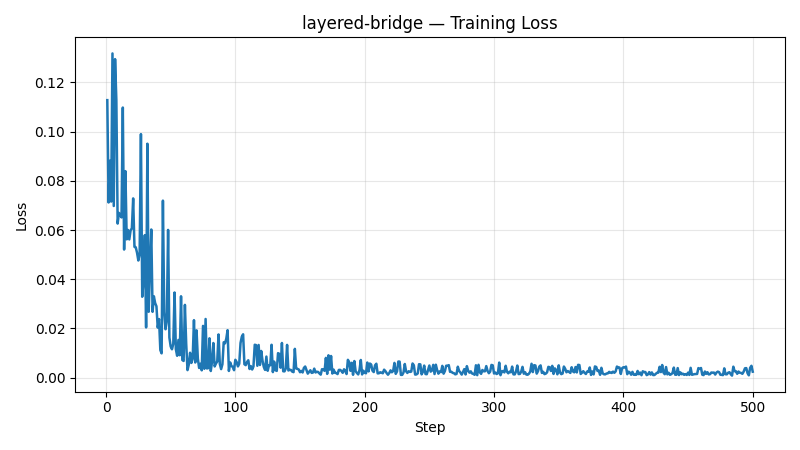
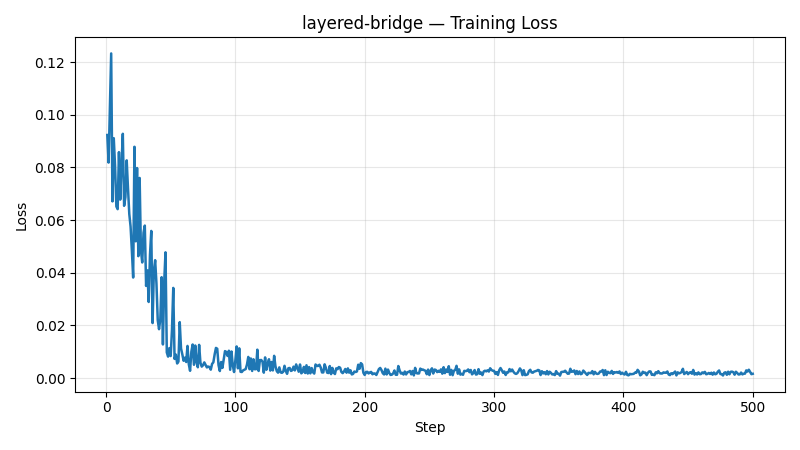
update(stage2): report

diff --git a/reports/stage-2/training-report.md b/reports/stage-2/training-report.md
@@ -6,11 +6,11 @@
 - Git commit: `n/a`
 - Stage: `stage-2`
 - Workflows documented: `core-delta`, `layered-bridge`, `experimental`
-- Report generated from: `stage-2/run-status.json`, `reports/stage-2-merge-manifest.json`
+- Report generated from: `stage-2/run-status.json`, `reports/stage-2/merge-manifest.json`
 
 ## Hardware
 
-- Hostname: `nodegpu246`
+- Hostname: `nodegpu217`
 - Platform: `Linux-4.18.0-553.42.1.el8_10.x86_64-x86_64-with-glibc2.28`
 - Python: `3.12.13`
 - CPU: `x86_64`
@@ -23,23 +23,68 @@
 
 ## Aggregate Timing
 
-- Total elapsed across all workflows: `2.6s (00h 00m 02s)`
+- Total elapsed across all workflows: `7089.8s (01h 58m 09s)`
 
 ## Runtime / Job Summary
 
 | Job | Status | Duration (s) | Exit code | Log |
 | --- | --- | --- | --- | --- |
-| `core_delta_sweep` | `succeeded` | `686.6836` | `0` | `stage-2/logs/core-delta-sweep.log` |
-| `core_smoke_eval` | `succeeded` | `264.7904` | `0` | `stage-2/logs/core-smoke-eval.log` |
-| `experimental_smoke_eval` | `succeeded` | `265.9189` | `0` | `stage-2/logs/experimental-smoke-eval.log` |
-| `layered_bridge_train` | `succeeded` | `22.253` | `0` | `stage-2/logs/layered-bridge-train.log` |
-| `teacher_dataset_generation` | `succeeded` | `3414.4815` | `0` | `stage-2/logs/teacher-dataset.log` |
+| `consistency_eval` | `succeeded` | `1109.2909` | `0` | `stage-2/logs/consistency-eval.log` |
+| `core_delta_sweep` | `succeeded` | `1065.4573` | `0` | `stage-2/logs/core-delta-sweep.log` |
+| `core_edit_eval` | `succeeded` | `649.1934` | `0` | `stage-2/logs/core-edit-eval.log` |
+| `core_smoke_eval` | `succeeded` | `305.1985` | `0` | `stage-2/logs/core-smoke-eval.log` |
+| `experimental_smoke_eval` | `succeeded` | `331.2621` | `0` | `stage-2/logs/experimental-smoke-eval.log` |
+| `layered_bridge_train` | `succeeded` | `31.3337` | `0` | `stage-2/logs/layered-bridge-train.log` |
+| `teacher_dataset_generation` | `succeeded` | `3598.0664` | `0` | `stage-2/logs/teacher-dataset.log` |
 
 ---
 
 ## Workflow: core-delta
 
-_Metrics file not found at `stage-2/metrics/core-delta-train.json`. This workflow has not been executed yet._
+### Training Method
+- Type: `coefficient-sweep`
+- Model: `Qwen/Qwen-Image-2512 + Qwen/Qwen-Image-Edit-2511`
+- Objective: `edit-delta blend sweep`
+- Optimizer: `n/a`
+- Notes: Image-level delta sweep over blend weights [0.2, 0.3, 0.35, 0.4]. No gradient-based training.
+
+### Hyperparameters
+- Max steps: `n/a`
+- Batch size: `n/a`
+- Learning rate: `n/a`
+- Seed: `n/a`
+
+### Timing
+- Start: `2026-03-24T10:40:16.506529+00:00`
+- End: `2026-03-24T10:58:01.967804+00:00`
+- Elapsed: `1065.5s (00h 17m 45s)`
+- Job status: `succeeded`
+
+### Loss
+- Final: `n/a`
+- Min: `n/a`
+- Max: `n/a`
+
+_No loss curve data available._
+
+_Loss curve figure unavailable (matplotlib not installed or `loss_curve` absent in metrics)._
+
+### Structure Visualization
+
+```mermaid
+flowchart LR
+    L0["Base Model (2512)"]
+    L1["Edit Delta"]
+    L2["Merged Output"]
+    L0 --> L1
+    L1 --> L2
+```
+
+### Visual Outcomes (Before / After Merge)
+
+_Before sample not available at `stage-2/evals/core-delta/samples/`._
+
+_After sample not yet available at `stage-2/evals/core-delta/real-samples/`._
 
 ## Workflow: layered-bridge
 
@@ -52,34 +97,34 @@ _Metrics file not found at `stage-2/metrics/core-delta-train.json`. This workflo
 
 ### Hyperparameters
 - Max steps: `500`
-- Batch size: `1`
+- Batch size: `2`
 - Learning rate: `0.001`
 - Seed: `1234`
 
 ### Timing
-- Start: `2026-03-23T21:56:43.957228+00:00`
-- End: `2026-03-23T21:57:02.649812+00:00`
-- Elapsed: `2.6s (00h 00m 02s)`
+- Start: `2026-03-24T12:03:14.182373+00:00`
+- End: `2026-03-24T12:03:35.948830+00:00`
+- Elapsed: `4.8s (00h 00m 04s)`
 - Job status: `succeeded`
 
 ### Loss
-- Final: `0.00239641685038805`
-- Min: `0.0008023153059184551`
-- Max: `0.13178911805152893`
+- Final: `0.0016438349848613143`
+- Min: `0.000956448377110064`
+- Max: `0.12330838292837143`
 
 | Step | Loss |
 | ---: | ---: |
-| 1 | 0.112798 |
-| 2 | 0.071192 |
-| 3 | 0.088174 |
-| 4 | 0.071560 |
-| 5 | 0.131789 |
+| 1 | 0.092334 |
+| 2 | 0.081858 |
+| 3 | 0.103077 |
+| 4 | 0.123308 |
+| 5 | 0.067125 |
 | … | _(steps 6–495 omitted)_ |
-| 496 | 0.001783 |
-| 497 | 0.000922 |
-| 498 | 0.003972 |
-| 499 | 0.004799 |
-| 500 | 0.002396 |
+| 496 | 0.002484 |
+| 497 | 0.003186 |
+| 498 | 0.002342 |
+| 499 | 0.001504 |
+| 500 | 0.001644 |
 
 ![layered-bridge training loss](figures/layered-bridge-loss.png)
 
@@ -108,7 +153,51 @@ _After sample not yet available at `stage-2/evals/layered-bridge/real-samples/`.
 
 ## Workflow: experimental
 
-_Metrics file not found at `stage-2/metrics/experimental-train.json`. This workflow has not been executed yet._
+### Training Method
+- Type: `experimental-smoke-eval`
+- Model: `stage-2/artifacts/experimental/qwen-image-1.9-layered-bridge-bf16.safetensors`
+- Objective: `smoke quality check on layered bridge checkpoint`
+- Optimizer: `n/a`
+- Notes: Experimental eval: visual pass/fail on the layered bridge checkpoint after MSE distillation training.
+
+### Hyperparameters
+- Max steps: `n/a`
+- Batch size: `n/a`
+- Learning rate: `n/a`
+- Seed: `n/a`
+
+### Timing
+- Start: `2026-03-24T12:03:36.658120+00:00`
+- End: `2026-03-24T12:09:07.929929+00:00`
+- Elapsed: `331.3s (00h 05m 31s)`
+- Job status: `succeeded`
+
+### Loss
+- Final: `n/a`
+- Min: `n/a`
+- Max: `n/a`
+
+_No loss curve data available._
+
+_Loss curve figure unavailable (matplotlib not installed or `loss_curve` absent in metrics)._
+
+### Structure Visualization
+
+```mermaid
+flowchart LR
+    L0["Input"]
+    L1["Merge Layer"]
+    L2["Output"]
+    L0 --> L1
+    L1 --> L2
+```
+
+### Visual Outcomes (Before / After Merge)
+
+**Before** (baseline eval sample — `stage-2/evals/experimental/samples/`):
+![experimental before merge](figures/experimental-before-001.png)
+
+_After sample not yet available at `stage-2/evals/experimental/real-samples/`._
 
 ---
 
@@ -116,13 +205,13 @@ _Metrics file not found at `stage-2/metrics/experimental-train.json`. This workf
 
 | Workflow | Status | Metrics source | Duration (s) |
 | --- | --- | --- | --- |
-| `core-delta` | `not executed` | `stage-2/metrics/core-delta-train.json` | — |
-| `layered-bridge` | `succeeded` | `stage-2/metrics/layered-bridge-train.json` | `22.253` |
-| `experimental` | `not executed` | `stage-2/metrics/experimental-train.json` | — |
+| `core-delta` | `succeeded` | `stage-2/metrics/core-delta-train.json` | `1065.457` |
+| `layered-bridge` | `succeeded` | `stage-2/metrics/layered-bridge-train.json` | `31.3337` |
+| `experimental` | `succeeded` | `stage-2/metrics/experimental-train.json` | `331.262` |
 
 ## Artifact References
 
-- Merge manifest: `reports/stage-2-merge-manifest.json`
+- Merge manifest: `reports/stage-2/merge-manifest.json`
 - Dataset manifest: `reports/stage-2/dataset-manifest.json`
 - Run status: `stage-2/run-status.json`
 - Figures: `reports/stage-2/figures/`

diff --git a/reports/stage-2/README.md b/reports/stage-2/README.md
@@ -8,7 +8,7 @@ Stage 2 now builds two tracks from the Stage 1 evidence: a stable BF16 core base
 - Run profile: `full`
 - Execution enabled: `True`
 - Execution policy: `overwrite`
-- Cleanup performed: `False`
+- Cleanup performed: `True`
 - Resource profile: `num_gpus=2`, `vram_target_gb=160`
 - Limits: `{"bridge_batch_size": 2, "bridge_train_steps": 500, "consistency_eval_prompt_count": 16, "core_candidate_id": "core-delta-w035", "dataset_samples_per_split": 8, "eval_edit_prompt_count": 8, "eval_prompt_count": 24, "poc_guidance_scale": 1.0, "poc_negative_prompt": "low resolution, low quality, deformed limbs, deformed fingers, oversaturated image, waxy skin, over-smoothed face, artificial look, chaotic composition, blurry text, distorted text", "poc_side": 1024, "poc_steps": 30, "poc_true_cfg_scale": 4.0}`
 
@@ -89,3 +89,50 @@ Stage 2 now builds two tracks from the Stage 1 evidence: a stable BF16 core base
 - Stage 2 does not attempt true RGBA decomposition support. Layered supervision is flattened back into RGB composites.
 - The stable core winner is provisional until the remote coefficient sweep and smoke suite complete.
 - The Layered branch is experimental and should be treated as a bridge adapter, not a drop-in replacement for the core checkpoint.
+
+---
+
+## Run Results
+
+> Profile: `full` · Policy: `overwrite` · Total: `1h 58m 09s`
+
+### Job Execution
+
+| Job | Status | Duration (s) | Exit | Log |
+| --- | --- | --- | --- | --- |
+| `core_delta_sweep` | ✓ `succeeded` | `1065.4573` | `0` | `stage-2/logs/core-delta-sweep.log` |
+| `core_smoke_eval` | ✓ `succeeded` | `305.1985` | `0` | `stage-2/logs/core-smoke-eval.log` |
+| `teacher_dataset_generation` | ✓ `succeeded` | `3598.0664` | `0` | `stage-2/logs/teacher-dataset.log` |
+| `layered_bridge_train` | ✓ `succeeded` | `31.3337` | `0` | `stage-2/logs/layered-bridge-train.log` |
+| `experimental_smoke_eval` | ✓ `succeeded` | `331.2621` | `0` | `stage-2/logs/experimental-smoke-eval.log` |
+| `core_edit_eval` | ✓ `succeeded` | `649.1934` | `0` | `stage-2/logs/core-edit-eval.log` |
+| `consistency_eval` | ✓ `succeeded` | `1109.2909` | `0` | `stage-2/logs/consistency-eval.log` |
+
+### Training Report
+
+[training-report.md](reports/stage-2/training-report.md)
+
+### Visual Evaluation
+
+#### Generation (core-delta merged model — text-to-image)
+
+![generation sample](stage-2/evals/core-candidates/core-delta-w035/samples/core-smoke-001.png)  ![generation sample](stage-2/evals/core-candidates/core-delta-w035/samples/core-smoke-002.png)  ![generation sample](stage-2/evals/core-candidates/core-delta-w035/samples/core-smoke-003.png)
+
+#### Edit (before → after pairs)
+
+| Before | After |
+|--------|-------|
+| ![ before](stage-2/evals/core-edit/edit-samples/edit-001-before.png) | ![after](stage-2/evals/core-edit/edit-samples/edit-001-after.png) |
+| ![ before](stage-2/evals/core-edit/edit-samples/edit-002-before.png) | ![after](stage-2/evals/core-edit/edit-samples/edit-002-after.png) |
+| ![ before](stage-2/evals/core-edit/edit-samples/edit-003-before.png) | ![after](stage-2/evals/core-edit/edit-samples/edit-003-after.png) |
+
+#### Experimental Layered Bridge (smoke eval)
+
+![experimental sample](stage-2/evals/experimental/samples/experimental-smoke-001.png)  ![experimental sample](stage-2/evals/experimental/samples/experimental-smoke-002.png)  ![experimental sample](stage-2/evals/experimental/samples/experimental-smoke-003.png)
+
+### Consistency Eval
+
+- Prompts evaluated: `16`
+- Mean pixel-L2 drift: `0.0`  _(lower = merged model stays close to foundation)_
+- Min drift: `0.0` / Max drift: `0.0`
+- Status: `passed`
